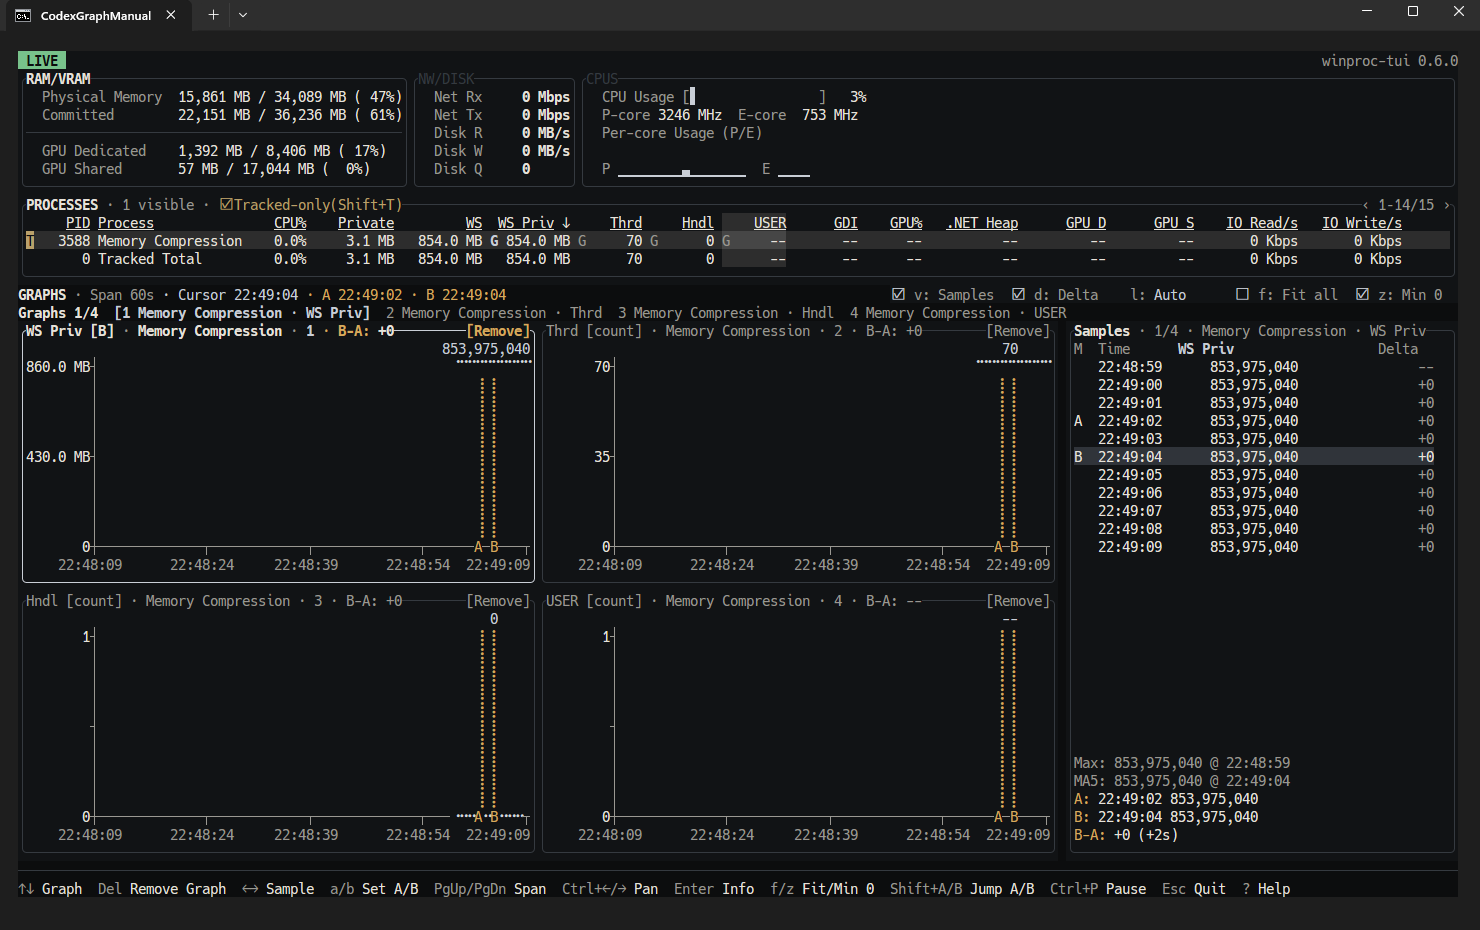
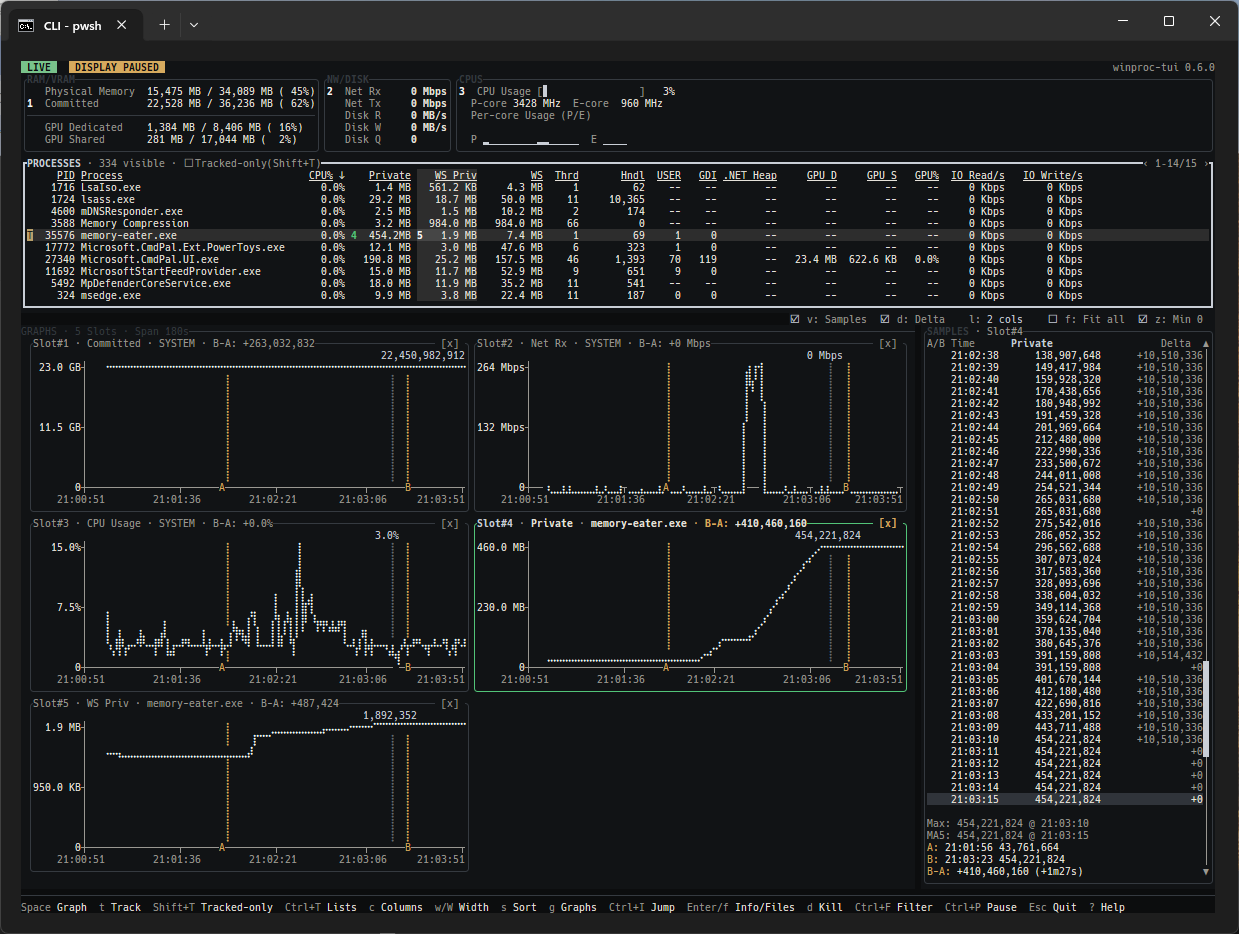
docs: update representative screenshot
Replace the README hero image with a real investigation showing system activity, process memory growth, multiple graphs, Samples, and A/B comparison. Synchronize the English and Japanese image descriptions.

diff --git a/README.ja.md b/README.ja.md
@@ -10,9 +10,9 @@
 Windows アプリのメモリ、ハンドル、GUI リソース、GPU メモリ、I/O などの現在値と時間変化をターミナルで確認できます。最大 16 個の Graph、A/B 比較、ログ記録と保存ログ表示により、開発・検証時のリソース挙動を調査できます。
 Process Explorer や System Informer のような網羅的なシステム調査ではなく、対象プロセスの変化を素早く追うことに特化しています。Rust/Ratatui で作られています。
 
-![winproc-tui のメイン画面。4 枚の Graph カード、Samples、A/B 比較を表示している](assets/screenshots/main-screen.png)
+![winproc-tui のメイン画面。システムとプロセスのメトリクス、5 枚の Graph、Samples、A/B 比較を表示している](assets/screenshots/main-screen.png)
 
-_追跡、表示の一時停止、A/B 比較を使用してプロセスのプライベートメモリを調査している例です。_
+_システムの状態とともにプロセスのプライベートメモリ増加を確認し、A/B マーカーで 2 時点を比較している例です。_
 
 ## クイックスタート
 

diff --git a/README.md b/README.md
@@ -10,9 +10,9 @@ Languages: [English](README.md) | [Japanese](README.ja.md)
 It shows current values and changes over time for memory, handles, GUI resources, GPU memory, I/O, and other Windows process metrics. Up to 16 Graphs, A/B comparison, recording, and saved-log review support resource-behavior investigations during development and verification.
 Rather than providing the broad system inspection of Process Explorer or System Informer, it focuses on quickly following changes in a specific process. It is built with Rust/Ratatui.
 
-![winproc-tui main screen showing a four-card Graph Workspace, Samples, and A/B comparison](assets/screenshots/main-screen.png)
+![winproc-tui main screen showing system and process metrics, five Graphs, Samples, and A/B comparison](assets/screenshots/main-screen.png)
 
-_Example investigation of a process's private memory using tracking, display pause, and A/B comparison._
+_Investigating private memory growth alongside system activity and comparing two points with A/B markers._
 
 ## Quick Start
 
